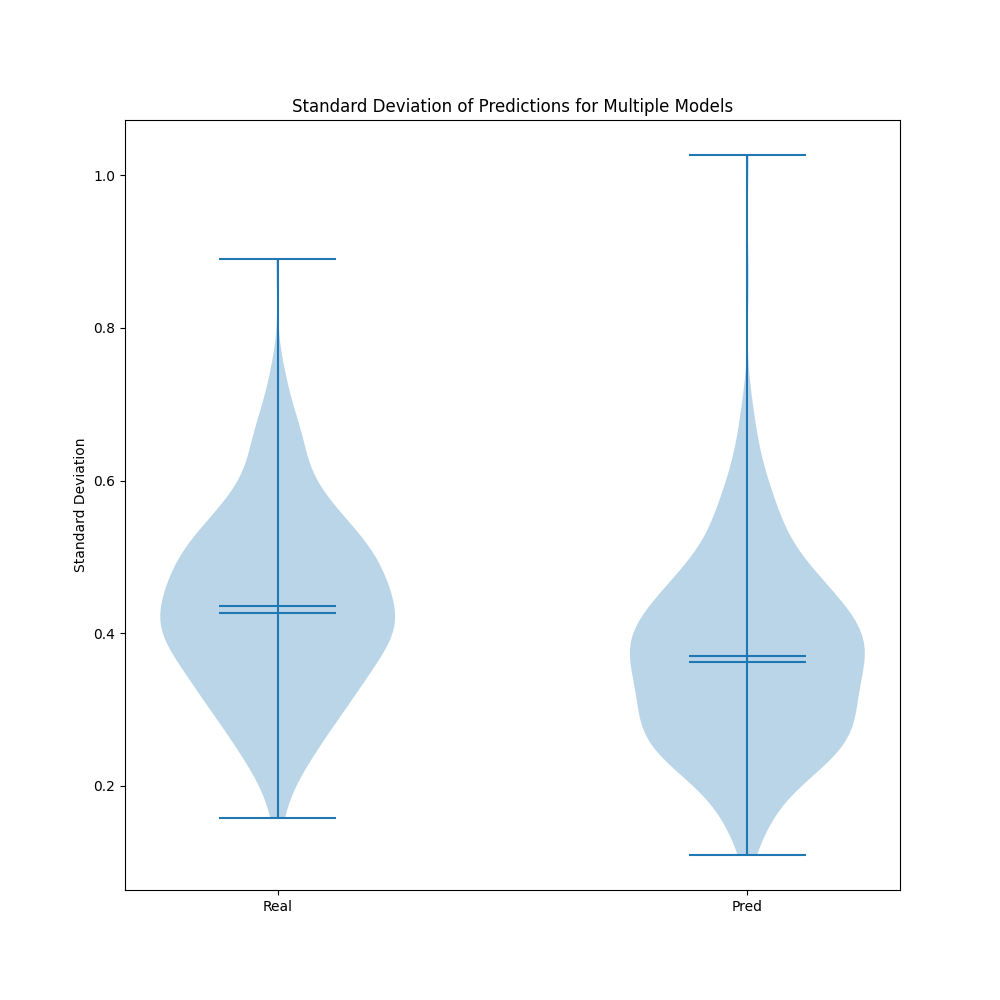
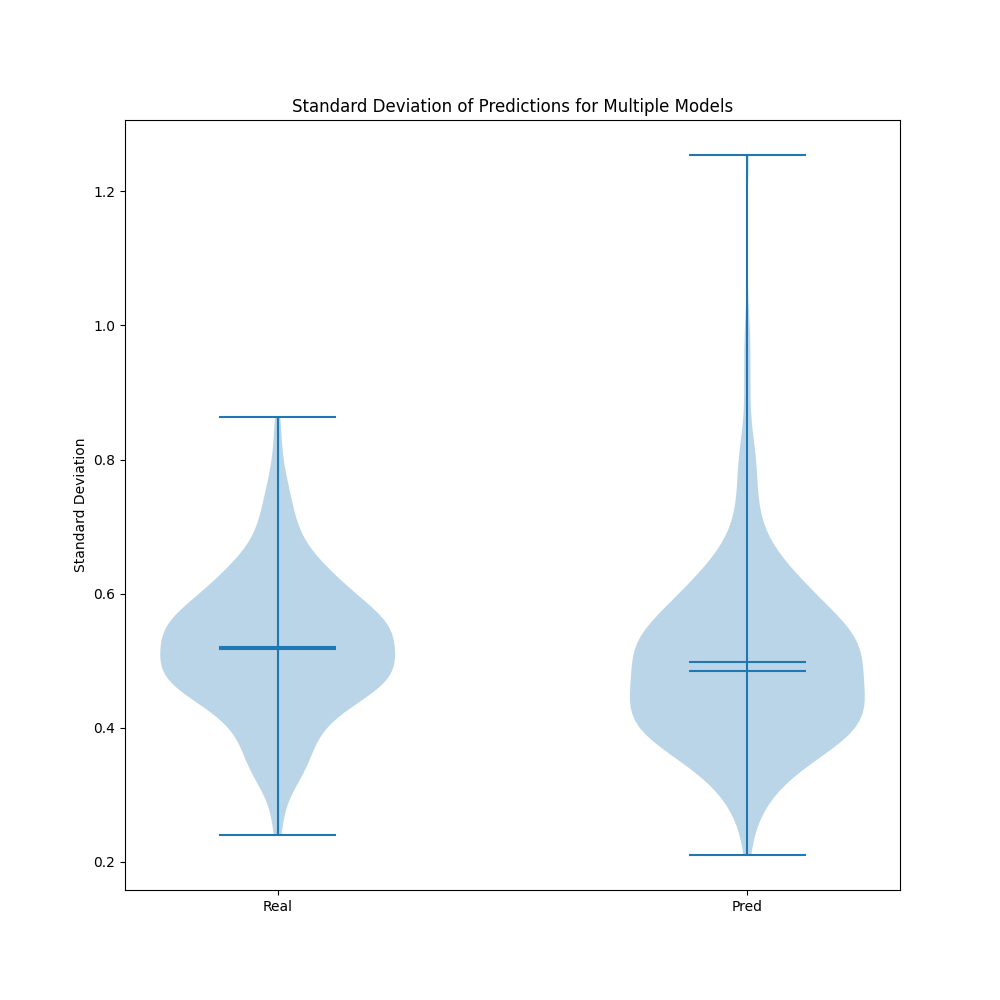
plotting

diff --git a/plot_label_preds_ttaug.py b/plot_label_preds_ttaug.py
@@ -74,7 +74,7 @@ def eval_on_named_dataset(model_path,
     return eval_dict
 
 if __name__ == "__main__":
-    model_name = "sfcnn_lr0.004_dropout0.1_wd0.01_bs32"
+    model_name = "sfcnn_lr0.0016_dropout0.3_wd0.015_bs16"
     model_path = f"ckpt/{model_name}/best_model.pth"
     data_path_real = "data/aug/real_test_aug"
     data_path_pred = "data/aug/pred_test_aug"

diff --git a/plot_multiple_models.py b/plot_multiple_models.py
@@ -48,6 +48,7 @@ if __name__ == "__main__":
     model_names = [
         "sfcnn_lr0.004_dropout0.1_wd0.01_bs32",
         "sfcnn_lr0.004_dropout0.5_wd0.01_bs32",
+        "sfcnn_lr0.0016_dropout0.3_wd0.015_bs16"
     ]
     plot_path = "plots/aug/multiple_models_std_violin.png"
     multiple_evaldict_variance_plot(model_names, plot_path)

diff --git a/README.md b/README.md
@@ -123,13 +123,13 @@ data
 # Training
 ## Using Slurm
 ```sh
-srun -G1 -c8 --mem=1M --time=5-00:00:00 -X -u python train.py --n_epochs 200 --batch_size 32 --num_workers 8 --last_dense_wd 0.0638 --lr 0.00445 --dropout 0.3625
+CUDA_LAUNCH_BLOCKING=1 srun -G1 -c8 --mem=1M --time=5-00:00:00 -X -u python train.py --n_epochs 200 --batch_size 16 --num_workers 8 --last_dense_wd 0.015 --lr 0.0016 --dropout 0.3
 ```
 
 ## Optuna Hyperparameter Tuning
 We disable wandb.
 ```sh
-WANDB_DISABLED=1 srun -G1 -c8 --mem=1M --time=5-00:00:00 -X -u python train_optuna.py --n_trials 50 --total_cpus 8 --n_jobs 2 --n_epochs 150
+WANDB_DISABLED=1 CUDA_LAUNCH_BLOCKING=1 srun -G1 -c8 --mem=1M --time=5-00:00:00 -X -u python train_optuna.py --n_trials 50 --total_cpus 8 --n_jobs 2 --n_epochs 150
 ```
 
 # Evaluation
